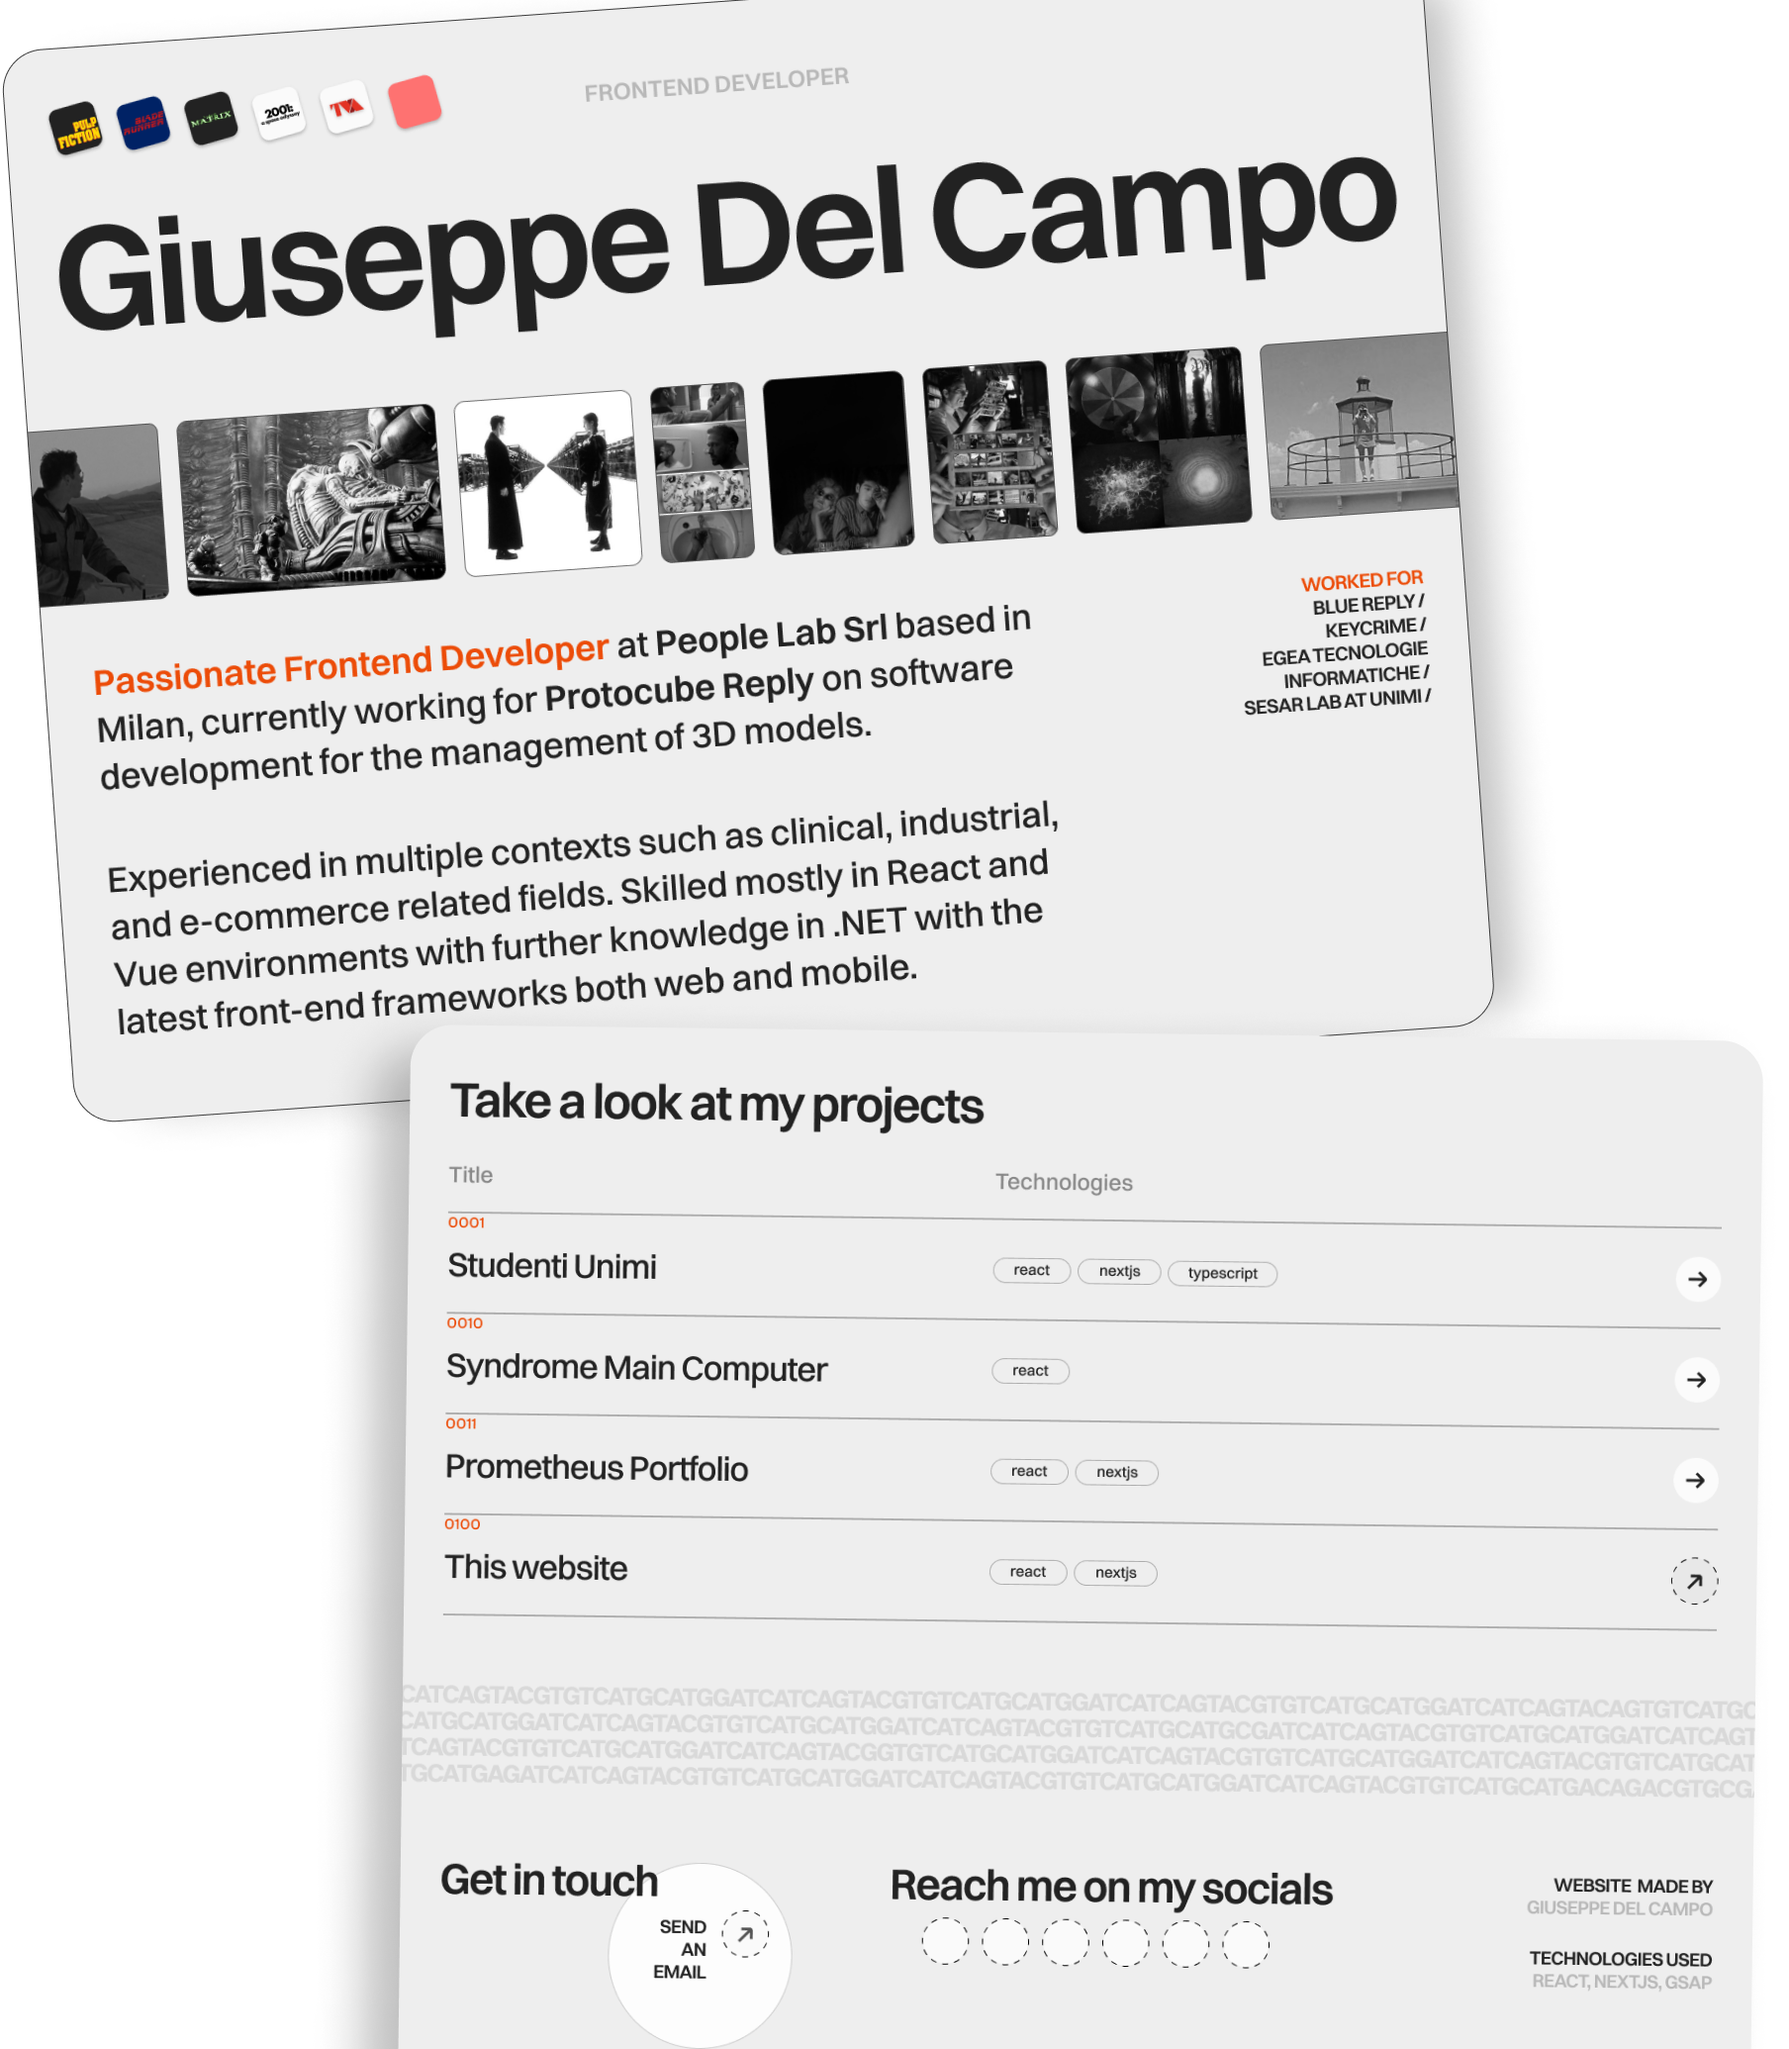
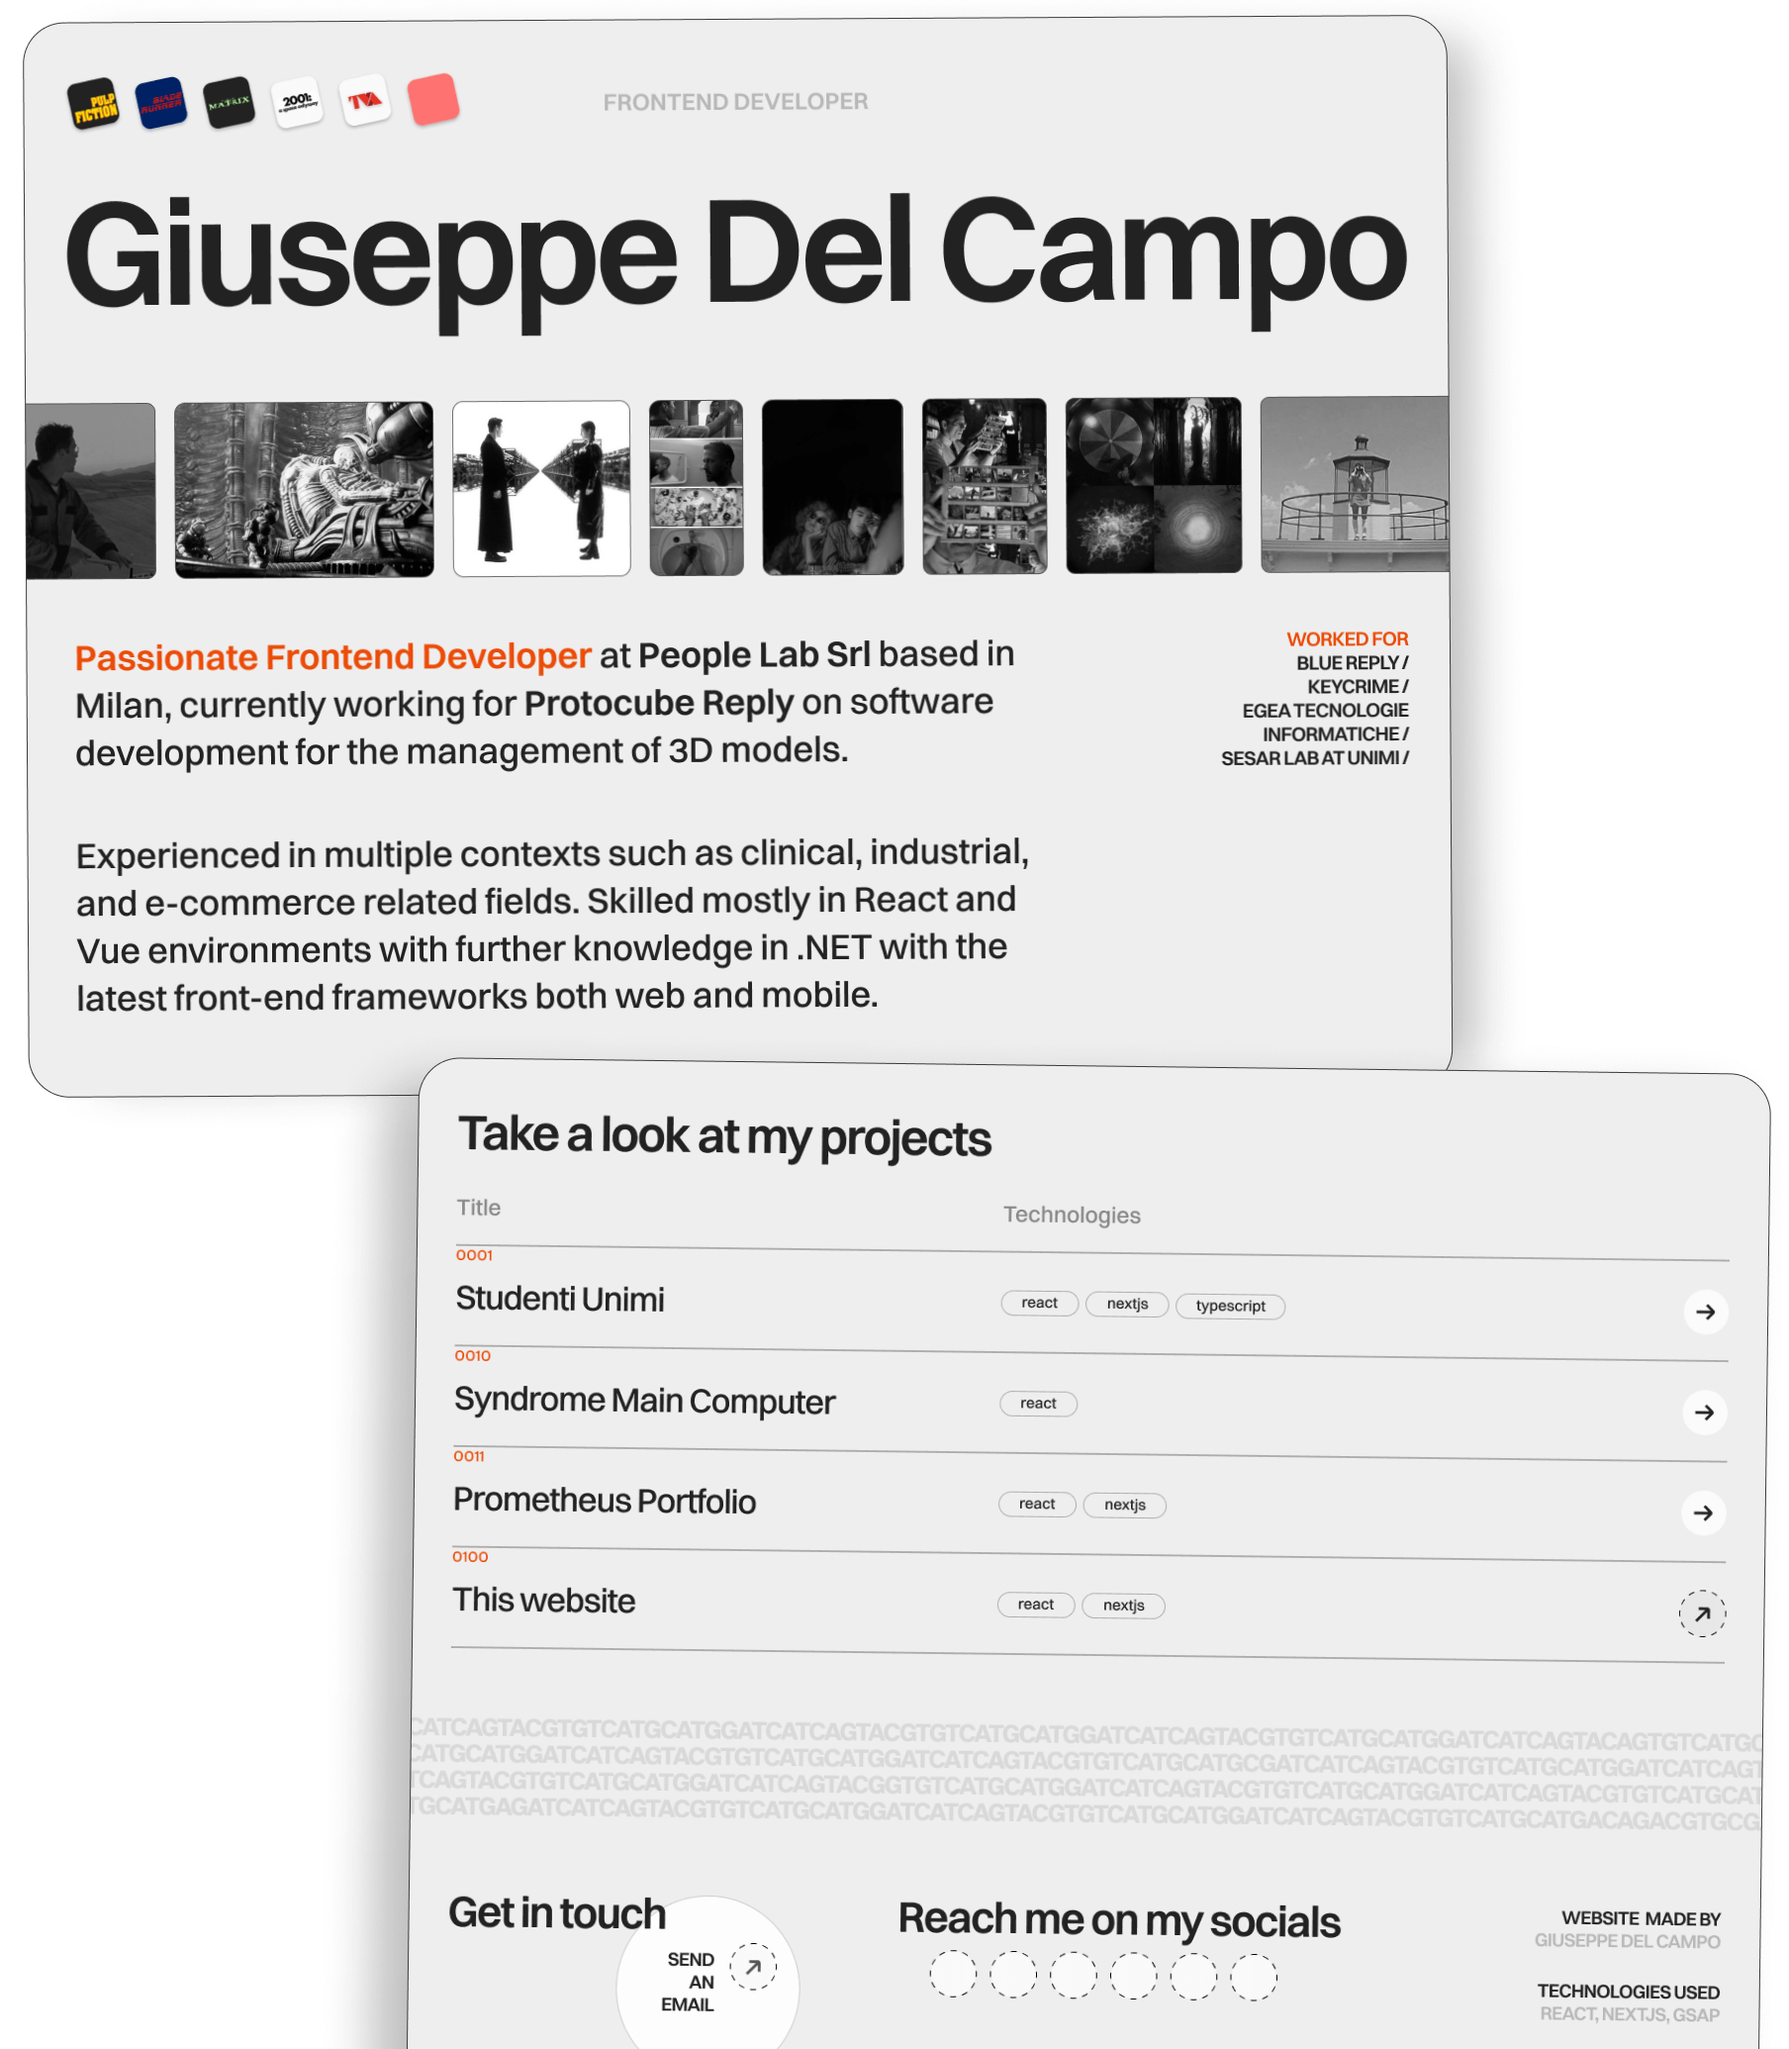
Title reveal effect

diff --git a/sections/hero.jsx b/sections/hero.jsx
@@ -1,30 +1,50 @@
 import Header from "@/components/header";
 import ImagesMarquee from "@/components/imagesMarquee";
+import gsap from "gsap";
+import SplitType from 'split-type'
+import { useGSAP } from "@gsap/react";
 
 const Hero = () => {
+    useGSAP(() => {
+        gsap.fromTo(
+            new SplitType('.title', { types: 'chars' }).chars,
+            {
+                y: 100,
+                opacity: 0
+            },
+            {
+                y: 0,
+                opacity: 1,
+                stagger: 0.05,
+                duration: 1.5,
+                ease: 'power4.out',
+            }
+        );
+    });
+
     return (
         <section className={"hero"}>
             <div className="container mx-auto">
                 <div className={"title"}>
                     <h1>
-                        Giuseppe<div className={"new-line"}/> Del Campo
+                        Giuseppe<div className={"new-line"} /> Del Campo
                     </h1>
                 </div>
             </div>
 
             <ImagesMarquee />
-                
+
             <div className="container mx-auto">
                 <div className={"subtitle"}>
                     <div className="grid grid-cols-12 gap-4">
                         <div className="col-span-12 xl:col-span-8 description">
                             <p>
-                                <b className={"accent"}>Passionate Frontend Developer</b> at <b><a href="https://www.peoplelab.it/">People Lab Srl</a></b> based in Milan, 
-                                currently working for <b><a href="https://protocube.it/">Protocube Reply</a></b> on software development for the management of 3D models. 
+                                <b className={"accent"}>Passionate Frontend Developer</b> at <b><a href="https://www.peoplelab.it/">People Lab Srl</a></b> based in Milan,
+                                currently working for <b><a href="https://protocube.it/">Protocube Reply</a></b> on software development for the management of 3D models.
                             </p>
 
                             <p>
-                                Experienced in multiple contexts such as clinical, industrial, and e-commerce related fields. 
+                                Experienced in multiple contexts such as clinical, industrial, and e-commerce related fields.
                                 Skilled mostly in React and Vue environments with further knowledge in .NET with the latest front-end frameworks both web and mobile.
                             </p>
                         </div>

diff --git a/sections/hero.scss b/sections/hero.scss
@@ -13,6 +13,7 @@
     }
 
     .title h1 {
+        clip-path: polygon(0 0, 100% 0, 100% 200%, 0% 100%);
         font-size: clamp(56px, 6vw + 2.3rem, 156px);
         font-weight: 600;
         text-align: center;
